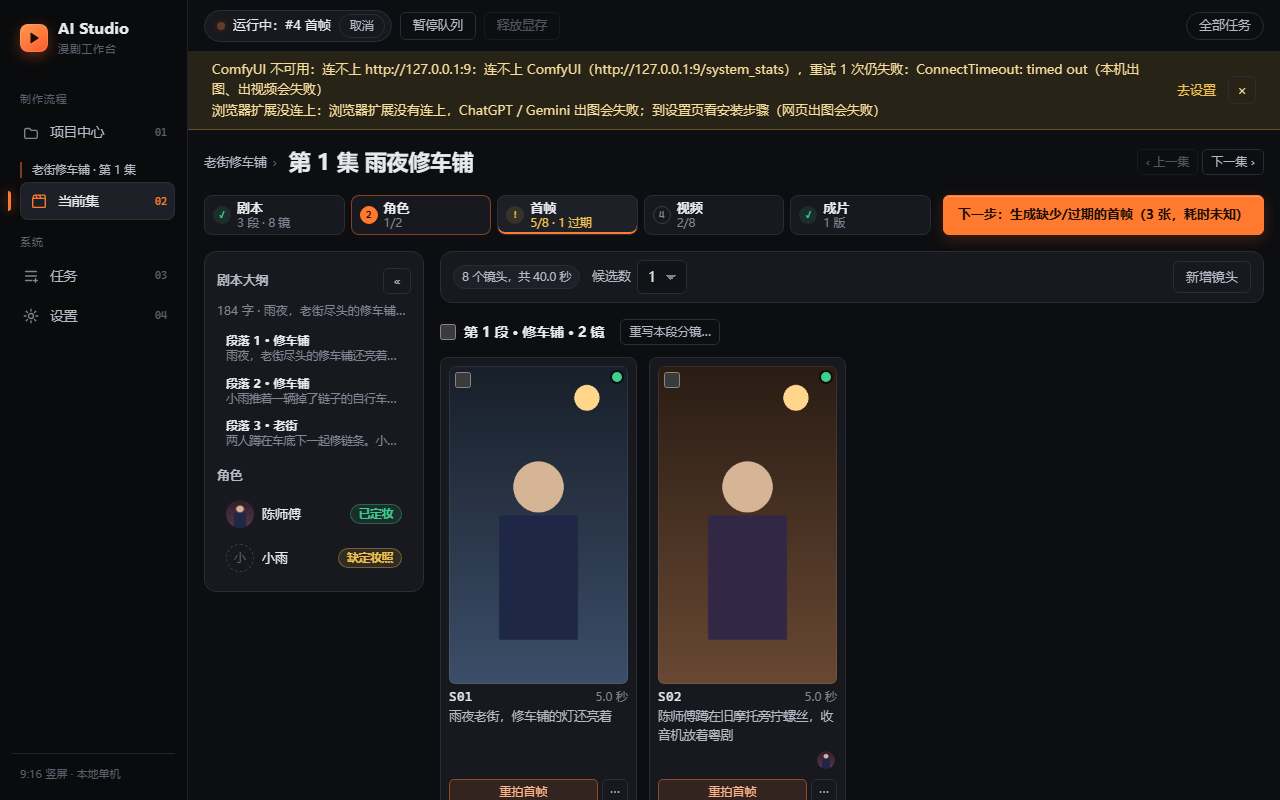
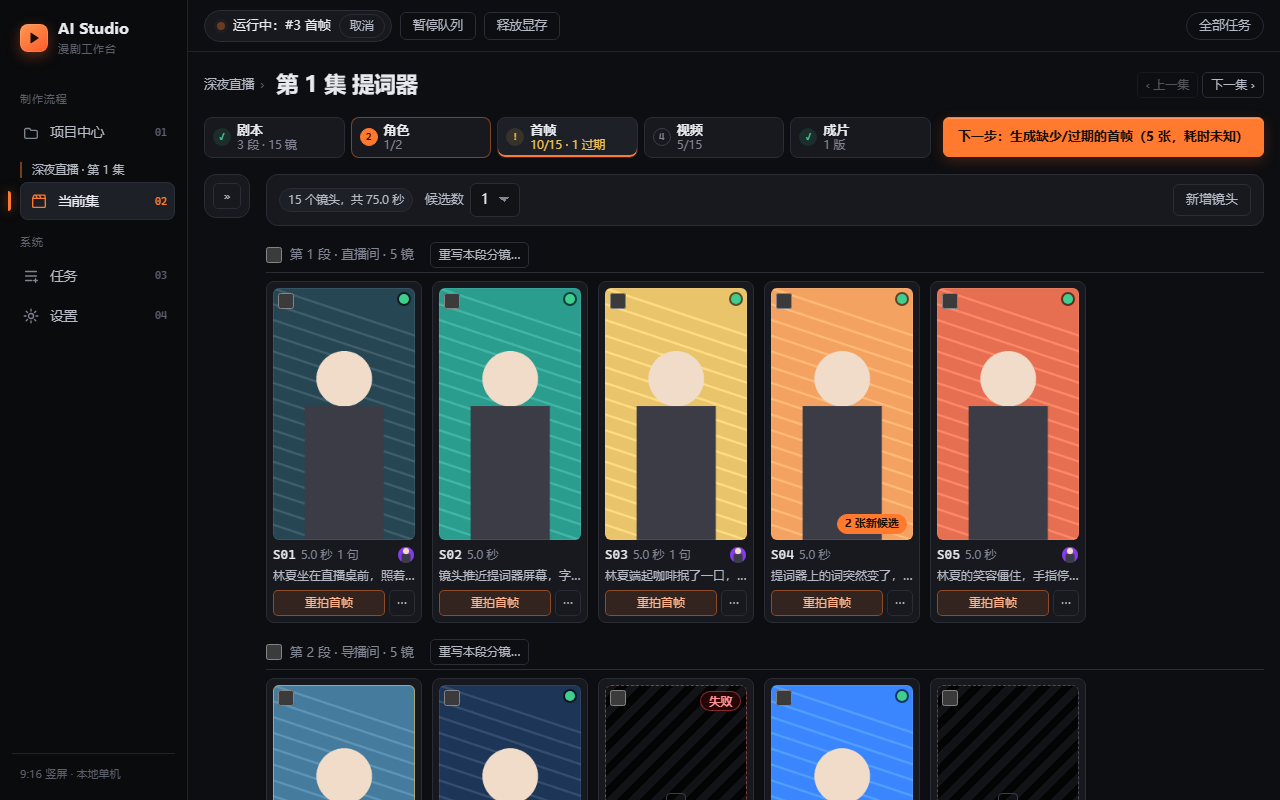
feat(ui): 镜头网格更紧凑：卡片固定 128–156px 不拉伸（1600 宽一行 6–7 张，1280 宽左栏展开 5 张），台词数和出场角色并到镜号一行、动作一行；组头改成细分隔行；左栏没选过时首帧/视频阶段默认收起；重拍首帧/视频阶段截图

diff --git a/frontend/src/styles.css b/frontend/src/styles.css
@@ -1349,21 +1349,26 @@ img.rail-avatar { border: 0; }
    ========================================================================= */
 .shot-stage { display: flex; flex-direction: column; gap: var(--s-4); }
 .shot-stage > .panel { margin: 0; }
-.shot-grid-wrap { display: flex; flex-direction: column; gap: var(--s-5); }
-.shot-group { display: flex; flex-direction: column; gap: var(--s-3); min-width: 0; }
-.shot-group-head { display: flex; align-items: center; gap: var(--s-2); flex-wrap: wrap; }
-.shot-group-head h3 { margin: 0; font-size: 14px; font-weight: 600; color: var(--text); }
+.shot-grid-wrap { display: flex; flex-direction: column; gap: var(--s-4); }
+.shot-group { display: flex; flex-direction: column; gap: var(--s-2); min-width: 0; }
+/* 组头是一条细分隔行：勾选 + 「第 N 段 · 场景 · M 镜」+ 右边「重写本段分镜…」，下边一条细线 */
+.shot-group-head {
+  display: flex; align-items: center; gap: var(--s-2); flex-wrap: wrap; min-height: 28px;
+  padding-bottom: 4px; border-bottom: 1px solid var(--border);
+}
+.shot-group-head h3 { margin: 0; font-size: 12.5px; font-weight: 500; color: var(--muted); letter-spacing: 0.01em; }
 .shot-group-empty { margin: 0; }
-.shot-grid { display: grid; gap: var(--s-3); grid-template-columns: repeat(auto-fill, minmax(168px, 1fr)); }
+/* 卡片固定在 128–156px 宽、不拉伸：1600 宽一行 6–7 张，1280 宽（左栏展开）5 张，一屏能看完一段的首帧 */
+.shot-grid { display: grid; gap: 10px; grid-template-columns: repeat(auto-fill, minmax(128px, 156px)); }
 .shot-card {
-  position: relative; display: flex; flex-direction: column; gap: 8px; min-width: 0; padding: 8px;
+  position: relative; display: flex; flex-direction: column; gap: 6px; min-width: 0; padding: 6px;
   background: var(--surface-1); border: 1px solid var(--border); border-radius: var(--r-md);
 }
 .shot-card:hover { border-color: var(--border-strong); }
 .shot-card.is-selected { border-color: var(--accent); box-shadow: 0 0 0 1px var(--accent); background: var(--accent-soft); }
-.shot-check { position: absolute; left: 14px; top: 14px; z-index: 2; width: 18px; height: 18px; margin: 0; cursor: pointer; }
+.shot-check { position: absolute; left: 11px; top: 11px; z-index: 2; width: 16px; height: 16px; margin: 0; cursor: pointer; }
 .shot-open {
-  display: flex; flex-direction: column; align-items: stretch; gap: 6px; height: auto; padding: 0;
+  display: flex; flex-direction: column; align-items: stretch; gap: 5px; height: auto; padding: 0;
   border: 0; background: none; color: inherit; text-align: left; font-weight: 400; min-width: 0;
   white-space: normal; /* 按钮默认不换行：动作要能折到第二行再截断，不然一行被硬切掉 */
 }
@@ -1407,35 +1412,34 @@ img.rail-avatar { border: 0; }
   background: var(--accent); color: var(--accent-ink); border-color: var(--accent);
 }
 .shot-card.is-busy .new-cands { bottom: 32px; }
-.shot-meta { display: flex; flex-direction: column; gap: 4px; min-width: 0; }
-.shot-head { display: flex; align-items: baseline; justify-content: space-between; gap: 6px; }
-.shot-code { font-family: var(--mono); font-size: 13px; letter-spacing: 0.02em; color: var(--text); }
-.shot-dur { font-size: 12px; color: var(--muted); font-variant-numeric: tabular-nums; }
+.shot-meta { display: flex; flex-direction: column; gap: 2px; min-width: 0; }
+.shot-head { display: flex; align-items: center; gap: 5px; min-width: 0; height: 20px; }
+.shot-code { font-family: var(--mono); font-size: 12.5px; letter-spacing: 0.02em; color: var(--text); }
+.shot-dur, .shot-lines { font-size: 11.5px; color: var(--muted); font-variant-numeric: tabular-nums; white-space: nowrap; }
 .shot-action {
-  font-size: 12.5px; line-height: 1.5; color: var(--text-2); overflow-wrap: anywhere;
-  display: -webkit-box; -webkit-box-orient: vertical; -webkit-line-clamp: 2; line-clamp: 2; overflow: hidden;
+  font-size: 12px; line-height: 1.45; color: var(--text-2);
+  white-space: nowrap; overflow: hidden; text-overflow: ellipsis;
 }
-.shot-foot { display: flex; align-items: center; justify-content: space-between; gap: 6px; min-width: 0; }
-.shot-lines { font-size: 12px; color: var(--muted); white-space: nowrap; }
-.shot-cast { display: flex; margin-left: auto; }
+.shot-cast { display: flex; margin-left: auto; min-width: 0; overflow: hidden; }
 .shot-avatar {
-  width: 22px; height: 22px; border-radius: 50%; object-fit: cover; margin-left: -6px;
-  display: inline-flex; align-items: center; justify-content: center; font-size: 11px;
-  background: var(--surface-3); color: var(--text-2); border: 2px solid var(--surface-1);
+  width: 18px; height: 18px; border-radius: 50%; object-fit: cover; margin-left: -5px; flex: none;
+  display: inline-flex; align-items: center; justify-content: center; font-size: 10px;
+  background: var(--surface-3); color: var(--text-2); border: 1.5px solid var(--surface-1);
 }
 .shot-avatar:first-child { margin-left: 0; }
 .shot-stale {
-  margin: 0; font-size: 11.5px; line-height: 1.35; color: var(--warn);
+  margin: 0; font-size: 11px; line-height: 1.35; color: var(--warn);
   white-space: nowrap; overflow: hidden; text-overflow: ellipsis;
 }
 .shot-fail {
-  margin: 0; font-size: 11.5px; line-height: 1.35; color: #ff9a9d; overflow-wrap: anywhere;
-  display: -webkit-box; -webkit-box-orient: vertical; -webkit-line-clamp: 3; line-clamp: 3; overflow: hidden;
+  margin: 0; font-size: 11px; line-height: 1.35; color: #ff9a9d;
+  white-space: nowrap; overflow: hidden; text-overflow: ellipsis; /* 全文在悬停提示和抽屉里 */
 }
 .shot-actions { display: flex; align-items: center; gap: 4px; }
 /* 同一行的卡片高度不同（有无台词/角色、过期/失败说明）：按钮贴底对齐 */
 .shot-card > .shot-actions { margin-top: auto; }
-.shot-actions > button:first-child { flex: 1; min-width: 0; }
+.shot-actions > button:first-child { flex: 1; min-width: 0; height: 26px; }
+.shot-actions .menu-trigger { height: 26px; }
 
 /* =========================================================================
    角色阶段：角色卡网格 + 下方「设定」折叠（pages/workspace/CastStage、CastCard、CharacterDrawer）
@@ -1452,7 +1456,7 @@ img.rail-avatar { border: 0; }
 }
 .cast-card:hover { border-color: var(--border-strong); }
 .cast-open {
-  display: flex; flex-direction: column; align-items: stretch; gap: 6px; height: auto; padding: 0;
+  display: flex; flex-direction: column; align-items: stretch; gap: 5px; height: auto; padding: 0;
   border: 0; background: none; color: inherit; text-align: left; font-weight: 400; min-width: 0;
 }
 .cast-open:hover:not(:disabled) { background: none; border: 0; }

diff --git a/frontend/src/pages/EpisodeWorkspace.test.tsx b/frontend/src/pages/EpisodeWorkspace.test.tsx
@@ -404,7 +404,7 @@ describe('EpisodeWorkspace', () => {
 
   it('左栏：原文一行摘要和段落列表，点段落切到剧本阶段', async () => {
     installFetch(routes());
-    renderRoute('/projects/demo/episodes/4?stage=keyframes');
+    renderRoute('/projects/demo/episodes/4?stage=export');
     const rail = await screen.findByRole('complementary', { name: '剧本大纲与角色' });
     expect(within(rail).getByTestId('rail-source').textContent).toContain('深夜的直播间');
     expect(within(rail).getByTestId('rail-source').textContent).not.toContain('第二行');
@@ -417,7 +417,7 @@ describe('EpisodeWorkspace', () => {
 
   it('左栏角色：头像或首字、名字、定妆状态；点角色切到角色阶段并带上 ?char=', async () => {
     installFetch(routes());
-    renderRoute('/projects/demo/episodes/4?stage=keyframes');
+    renderRoute('/projects/demo/episodes/4?stage=export');
     const rail = await screen.findByRole('complementary', { name: '剧本大纲与角色' });
     const lin = await within(rail).findByRole('button', { name: /^林夏/ });
     expect(lin.textContent).toContain('已定妆');
@@ -440,6 +440,20 @@ describe('EpisodeWorkspace', () => {
     first.unmount();
     renderRoute('/projects/demo/episodes/4?stage=script');
     expect(await screen.findByRole('button', { name: '展开左栏' })).toBeTruthy();
+  });
+
+  it('左栏没收起 / 展开过时：首帧、视频阶段默认收起，剧本阶段展开；自己展开过以后记住，首帧阶段也展开', async () => {
+    installFetch(routes());
+    const first = renderRoute('/projects/demo/episodes/4?stage=keyframes');
+    const user = userEvent.setup();
+    expect(await screen.findByRole('button', { name: '展开左栏' })).toBeTruthy();
+    await user.click(within(stageBar()).getByRole('button', { name: /剧本/ }));
+    expect(await screen.findByRole('heading', { name: '剧本大纲' })).toBeTruthy();
+    await user.click(within(stageBar()).getByRole('button', { name: /视频/ }));
+    await user.click(await screen.findByRole('button', { name: '展开左栏' }));
+    first.unmount();
+    renderRoute('/projects/demo/episodes/4?stage=keyframes');
+    expect(await screen.findByRole('heading', { name: '剧本大纲' })).toBeTruthy();
   });
 
   describe('首帧确认门（首帧 / 视频阶段的下一步）', () => {

diff --git a/frontend/src/pages/workspace/WorkspaceRail.tsx b/frontend/src/pages/workspace/WorkspaceRail.tsx
@@ -1,4 +1,5 @@
 // 单集工作台的左栏：剧本大纲（原文一行摘要 + 段落列表）和本集角色（头像 / 名字 / 定妆状态）。可收起，记在本机浏览器里。
+// 用户还没自己收起 / 展开过时：首帧、视频阶段默认收起（镜头卡片网格要宽），其他阶段默认展开。
 import { useState } from 'react';
 import { useCharacters, useLocations } from '../../api/queries';
 import type { EpisodeDetail } from '../../api/types';
@@ -6,18 +7,19 @@ import { castOf, hasPortrait } from '../stages';
 
 const KEY = 'studio.workspaceRail';
 
-function readCollapsed(): boolean {
+/** 用户自己选过的：true 收起、false 展开；没选过为 null（按阶段给默认） */
+function readChoice(): boolean | null {
   try {
-    return localStorage.getItem(KEY) === 'collapsed';
+    const v = localStorage.getItem(KEY);
+    return v === 'collapsed' ? true : v === 'expanded' ? false : null;
   } catch {
-    return false;
+    return null;
   }
 }
 
-function saveCollapsed(collapsed: boolean) {
+function saveChoice(collapsed: boolean) {
   try {
-    if (collapsed) localStorage.setItem(KEY, 'collapsed');
-    else localStorage.removeItem(KEY);
+    localStorage.setItem(KEY, collapsed ? 'collapsed' : 'expanded');
   } catch {
     // 存不了就只在这次打开里有效
   }
@@ -33,17 +35,20 @@ interface WorkspaceRailProps {
   ep: EpisodeDetail;
   /** 当前打开的角色（?char=） */
   activeChar: number | null;
+  /** 当前阶段：没选过收起 / 展开时，首帧、视频阶段默认收起 */
+  stage?: string | null;
   onBlock: (blockId: number) => void;
   onChar: (charId: number) => void;
 }
 
-export function WorkspaceRail({ slug, ep, activeChar, onBlock, onChar }: WorkspaceRailProps) {
-  const [collapsed, setCollapsed] = useState(readCollapsed);
+export function WorkspaceRail({ slug, ep, activeChar, stage = null, onBlock, onChar }: WorkspaceRailProps) {
+  const [choice, setChoice] = useState(readChoice);
+  const collapsed = choice ?? (stage === 'keyframes' || stage === 'videos');
   const characters = useCharacters(slug);
   const locations = useLocations(slug);
   const toggle = () => {
-    setCollapsed(!collapsed);
-    saveCollapsed(!collapsed);
+    setChoice(!collapsed);
+    saveChoice(!collapsed);
   };
 
   const toggleBtn = (

diff --git a/frontend/src/pages/workspace/ShotCard.tsx b/frontend/src/pages/workspace/ShotCard.tsx
@@ -1,4 +1,4 @@
-// 镜头卡片（首帧 / 视频阶段）：9:16 缩略 + 镜号、时长、动作、台词数、出场角色 + 状态角标；
+// 镜头卡片（首帧 / 视频阶段）：9:16 缩略 + 一行（镜号、时长、台词数、出场角色）+ 一行动作 + 状态角标；
 // 一个随状态变的按钮（普通样式，全页唯一的主按钮在阶段条）和「⋯」菜单；点卡片打开镜头抽屉，左上角勾选多选。
 import { useId } from 'react';
 import type { Character, ShotDetail } from '../../api/types';
@@ -111,23 +111,29 @@ export function ShotCard(props: ShotCardProps) {
           </span>
         </span>
         <span className="shot-meta">
+          {/* 紧凑：镜号、时长、台词数、出场角色头像一行；动作一行截断（全文在悬停提示和抽屉里） */}
           <span className="shot-head">
             <span id={ids.code} className="shot-code">
               {code}
             </span>
             <span className="shot-dur">{shot.duration.toFixed(1)} 秒</span>
-          </span>
-          <span className="shot-action">{shot.action || <span className="muted">（没有动作描述）</span>}</span>
-          {(shot.dialogue.length > 0 || cast.length > 0) && (
-            <span className="shot-foot">
-              {shot.dialogue.length > 0 && <span className="shot-lines">{shot.dialogue.length} 句台词</span>}
+            {shot.dialogue.length > 0 && (
+              <span className="shot-lines" title={`${shot.dialogue.length} 句台词`}>
+                {shot.dialogue.length} 句
+                <span className="visually-hidden">台词</span>
+              </span>
+            )}
+            {cast.length > 0 && (
               <span className="shot-cast">
                 {cast.map((c) => (
                   <Avatar key={c.id} c={c} />
                 ))}
               </span>
-            </span>
-          )}
+            )}
+          </span>
+          <span className="shot-action" title={shot.action || undefined}>
+            {shot.action || <span className="muted">（没有动作描述）</span>}
+          </span>
         </span>
       </button>
       {st.mark === 'stale' && (

diff --git a/frontend/src/pages/workspace/ShotCard.test.tsx b/frontend/src/pages/workspace/ShotCard.test.tsx
@@ -43,7 +43,7 @@ describe('ShotCard', () => {
     expect(within(card).getByText('S01')).toBeTruthy();
     expect(within(card).getByText('5.5 秒')).toBeTruthy();
     expect(within(card).getByText('林夏念稿')).toBeTruthy();
-    expect(within(card).getByText('2 句台词')).toBeTruthy();
+    expect(within(card).getByTitle('2 句台词').textContent).toBe('2 句台词');
     expect(within(card).getByRole('img', { name: '林夏' }).getAttribute('src')).toBe('/media/p8.png');
     expect(within(card).getByRole('img', { name: '老周' }).textContent).toBe('老');
   });

diff --git a/frontend/src/pages/EpisodeWorkspace.tsx b/frontend/src/pages/EpisodeWorkspace.tsx
@@ -189,6 +189,7 @@ function Workspace({ slug, id }: { slug: string; id: number }) {
           slug={slug}
           ep={ep.data}
           activeChar={Number(params.get('char')) || null}
+          stage={stage}
           onBlock={(blockId) => {
             setScrollBlock(blockId);
             void select('script');
